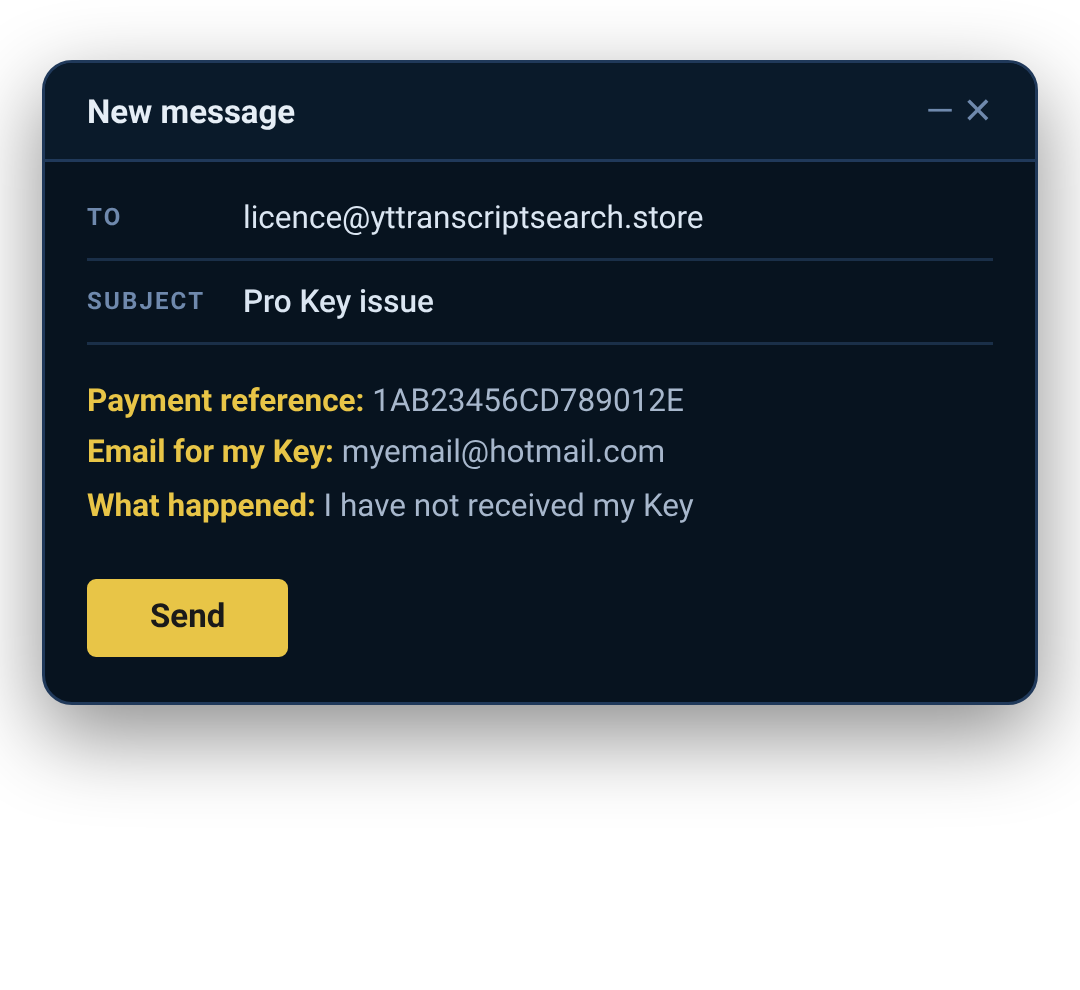
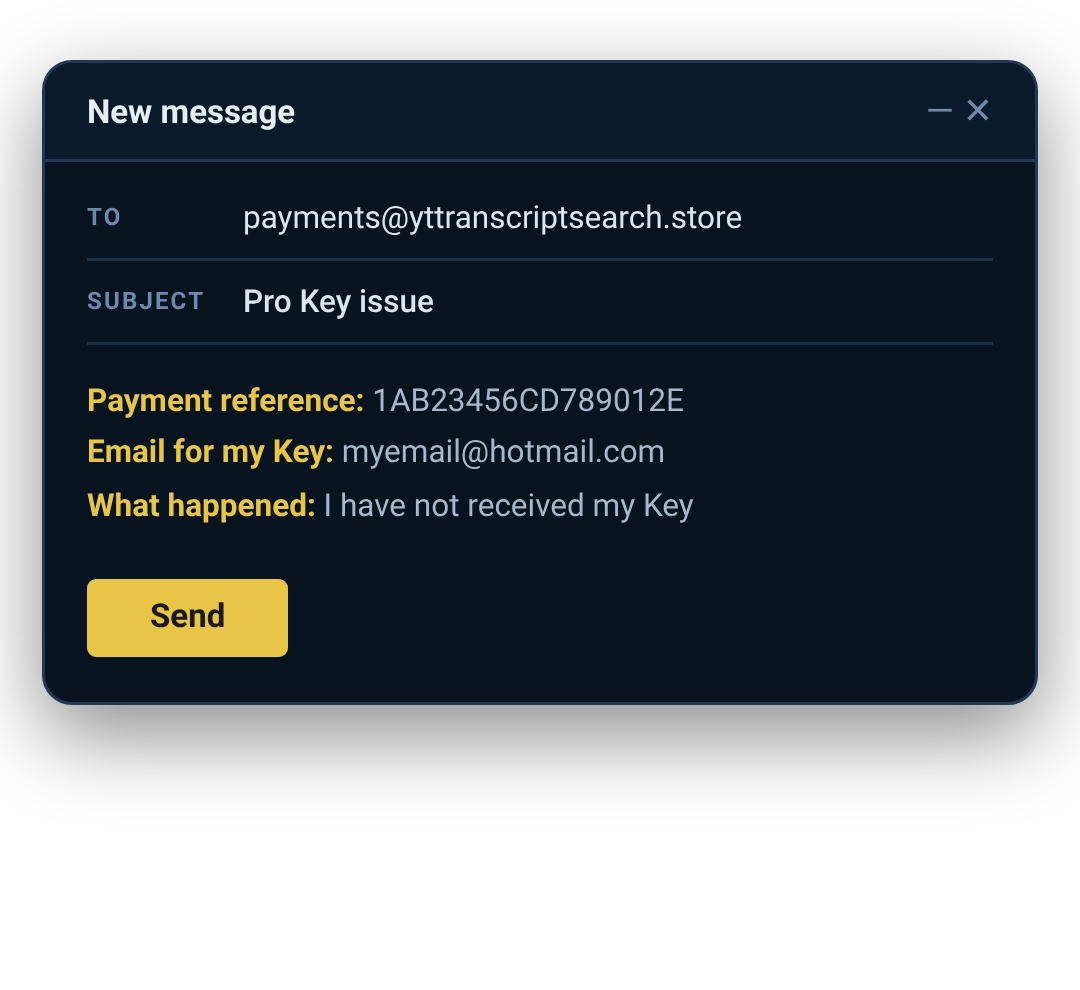
Add files via upload

Changed region(s): [[0.2139, 0.2121, 0.7028, 0.2424]]

diff --git a/purchase-thanks.html b/purchase-thanks.html
@@ -8,7 +8,7 @@
         <meta name="robots" content="noindex, nofollow"/>
         <link rel="stylesheet" href="style.css"/>
         <link rel="icon" href="icon_128x128.png"/>
-        <style>.features-section { padding: 36px 0; border-bottom: 1px solid var(--border); } .features-section:last-of-type { border-bottom: none; } .policy-updated { font-size: 13px; color: var(--muted); margin-top: -8px; margin-bottom: 8px; } .summary-grid { display: grid; grid-template-columns: repeat(auto-fill, minmax(240px, 1fr)); gap: 16px; } .summary-card { background: var(--surface); border: 1px solid var(--border); border-radius: 12px; padding: 22px; display: flex; gap: 14px; align-items: flex-start; } .summary-icon { font-size: 22px; flex-shrink: 0; margin-top: 1px; } .summary-title { font-family: var(--font-head); font-size: 14px; font-weight: 700; color: var(--text); margin-bottom: 4px; } .summary-desc { font-size: 13px; color: var(--muted2); line-height: 1.55; } .policy-body p { margin-bottom: 16px; } .policy-body p:last-child { margin-bottom: 0; } .policy-body strong { color: var(--text); } .policy-body a { color: var(--accent); } .faq { display: flex; flex-direction: column; gap: 0; margin-top: 8px; } .faq-item { border-bottom: 1px solid var(--border); padding: 22px 0; } .faq-item:first-child { border-top: 1px solid var(--border); } .faq-q { font-family: var(--font-head); font-size: 16px; font-weight: 600; color: var(--text); margin-bottom: 10px; }.welcome-steps { display: grid; grid-template-columns: repeat(auto-fill,minmax(230px,1fr)); gap: 2px; background: var(--border); border-radius: 14px; overflow: hidden; margin-bottom: 36px; } .welcome-step { background: var(--surface); padding: 32px 26px; } .welcome-num { font-family: var(--font-head); font-size: 12px; font-weight: 700; color: var(--accent); letter-spacing: 0.1em; margin-bottom: 14px; display: block; } .welcome-title { font-family: var(--font-head); font-size: 17px; font-weight: 600; color: var(--text); margin-bottom: 10px; } .welcome-desc { font-size: 14px; color: var(--muted2); line-height: 1.6; } .welcome-img { width: 100%; border-radius: 14px; border: 1px solid var(--border); box-shadow: 0 32px 80px rgba(0,0,0,0.7); } .welcome-links { display: flex; flex-wrap: wrap; gap: 12px; margin-top: 24px; } .thanks-steps.welcome-steps { display: grid !important; grid-template-columns: repeat(3, minmax(0, 1fr)); gap: 2px !important; } .welcome-desc a { color: var(--accent); } @media (max-width: 760px) { .thanks-steps.welcome-steps { grid-template-columns: minmax(0, 1fr); } } .pro-note { background: var(--surface); border-radius: 14px; padding: 26px 28px; margin: 0 0 4px; } .pro-note .eyebrow { margin-bottom: 10px; } .pro-note p { margin: 0; font-size: 15px; line-height: 1.7; color: var(--muted2); } .thanks-grid { display: grid; grid-template-columns: repeat(3, minmax(0, 1fr)); grid-template-rows: auto auto; } .thanks-col { display: contents; } .thanks-grid .welcome-step { grid-row: 1; border-left: 2px solid var(--border); } .thanks-grid .thanks-col:first-child .welcome-step { border-left: 0; border-radius: 14px 0 0 14px; } .thanks-grid .thanks-col:last-child .welcome-step { border-radius: 0 14px 14px 0; } .thanks-pic { grid-row: 2; margin-top: 36px; display: flex; justify-content: center; } .thanks-pic img { width: 100%; max-width: 360px; height: auto; display: block; } .thanks-grid .thanks-col:nth-child(1) > * { grid-column: 1; } .thanks-grid .thanks-col:nth-child(2) > * { grid-column: 2; } .thanks-grid .thanks-col:nth-child(3) > * { grid-column: 3; } .pro-note { margin-top: 36px !important; } @media (max-width: 760px) { .thanks-grid { display: block; } .thanks-col { display: block; margin-bottom: 28px; } .thanks-grid .welcome-step, .thanks-grid .thanks-col:first-child .welcome-step, .thanks-grid .thanks-col:last-child .welcome-step { border: 0; border-radius: 14px; } .thanks-pic { margin-top: 20px; } .pro-note { margin-top: 8px !important; } }</style>
+        <style>.features-section { padding: 36px 0; border-bottom: 1px solid var(--border); } .features-section:last-of-type { border-bottom: none; } .policy-updated { font-size: 13px; color: var(--muted); margin-top: -8px; margin-bottom: 8px; } .summary-grid { display: grid; grid-template-columns: repeat(auto-fill, minmax(240px, 1fr)); gap: 16px; } .summary-card { background: var(--surface); border: 1px solid var(--border); border-radius: 12px; padding: 22px; display: flex; gap: 14px; align-items: flex-start; } .summary-icon { font-size: 22px; flex-shrink: 0; margin-top: 1px; } .summary-title { font-family: var(--font-head); font-size: 14px; font-weight: 700; color: var(--text); margin-bottom: 4px; } .summary-desc { font-size: 13px; color: var(--muted2); line-height: 1.55; } .policy-body p { margin-bottom: 16px; } .policy-body p:last-child { margin-bottom: 0; } .policy-body strong { color: var(--text); } .policy-body a { color: var(--accent); } .faq { display: flex; flex-direction: column; gap: 0; margin-top: 8px; } .faq-item { border-bottom: 1px solid var(--border); padding: 22px 0; } .faq-item:first-child { border-top: 1px solid var(--border); } .faq-q { font-family: var(--font-head); font-size: 16px; font-weight: 600; color: var(--text); margin-bottom: 10px; }.welcome-steps { display: grid; grid-template-columns: repeat(auto-fill,minmax(230px,1fr)); gap: 2px; background: var(--border); border-radius: 14px; overflow: hidden; margin-bottom: 36px; } .welcome-step { background: var(--surface); padding: 32px 26px; } .welcome-num { font-family: var(--font-head); font-size: 12px; font-weight: 700; color: var(--accent); letter-spacing: 0.1em; margin-bottom: 14px; display: block; } .welcome-title { font-family: var(--font-head); font-size: 17px; font-weight: 600; color: var(--text); margin-bottom: 10px; } .welcome-desc { font-size: 14px; color: var(--muted2); line-height: 1.6; } .welcome-img { width: 100%; border-radius: 14px; border: 1px solid var(--border); box-shadow: 0 32px 80px rgba(0,0,0,0.7); } .welcome-links { display: flex; flex-wrap: wrap; gap: 12px; margin-top: 24px; } .thanks-steps.welcome-steps { display: grid !important; grid-template-columns: repeat(3, minmax(0, 1fr)); gap: 2px !important; } .welcome-desc a { color: var(--accent); } @media (max-width: 760px) { .thanks-steps.welcome-steps { grid-template-columns: minmax(0, 1fr); } } .pro-note { background: var(--surface); border-radius: 14px; padding: 26px 28px; margin: 0 0 4px; } .pro-note .eyebrow { margin-bottom: 10px; } .pro-note p { margin: 0; font-size: 15px; line-height: 1.7; color: var(--muted2); } .thanks-grid { display: grid; grid-template-columns: repeat(3, minmax(0, 1fr)); grid-template-rows: auto auto; } .thanks-col { display: contents; } .thanks-grid .welcome-step { grid-row: 1; border-left: 2px solid var(--border) !important; } .thanks-grid .thanks-col:first-child .welcome-step { border-left: 0 !important; border-radius: 14px 0 0 14px !important; } .thanks-grid .thanks-col:last-child .welcome-step { border-radius: 0 14px 14px 0 !important; } .thanks-pic { grid-row: 2; margin-top: 36px; display: flex; justify-content: center; } .thanks-pic img { width: 100%; max-width: 360px; height: auto; display: block; } .thanks-grid .thanks-col:nth-child(1) > * { grid-column: 1; } .thanks-grid .thanks-col:nth-child(2) > * { grid-column: 2; } .thanks-grid .thanks-col:nth-child(3) > * { grid-column: 3; } .pro-note { margin-top: 36px !important; } @media (max-width: 760px) { .thanks-grid { display: block; } .thanks-col { display: block; margin-bottom: 28px; } .thanks-grid .welcome-step, .thanks-grid .thanks-col:first-child .welcome-step, .thanks-grid .thanks-col:last-child .welcome-step { border: 0 !important; border-radius: 14px !important; } .thanks-pic { margin-top: 20px; } .pro-note { margin-top: 8px !important; } } .thanks-eyebrow { display: block; font-size: 30px !important; letter-spacing: 0.1em; margin-bottom: 14px; } .thanks-h1 { font-size: 50px !important; line-height: 1.15; margin: 0 !important; font-style: normal; } .thanks-pro { color: var(--accent); font-style: normal; font-weight: inherit; } .page-hero .page { text-align: center; } .pro-note { margin-top: 0 !important; } @media (max-width: 760px) { .thanks-eyebrow { font-size: 22px !important; } .thanks-h1 { font-size: 34px !important; } .pro-note { margin-top: 0 !important; } }</style>
     <link rel="stylesheet" href="site-v25.css" />
 </head>
     <body>
@@ -30,8 +30,8 @@
         </nav>
         <div class="page-hero">
             <div class="page" style="text-align:center;">
-                <span class="eyebrow">🎉 Payment received</span>
-                <h1 class="section-title">Thank you for going <em>Pro</em></h1>
+                <span class="eyebrow thanks-eyebrow">Payment received</span>
+                <h1 class="section-title thanks-h1">Thank you for going <span class="thanks-pro">★ Pro</span></h1>
             </div>
         </div>
         <div class="features-section">
@@ -47,15 +47,23 @@
                         <div class="thanks-pic"><img src="thanks-activate-pro.png" alt="The Get Pro button in the extension opening the Activate Pro panel with email address and Licence Key fields" width="360" height="330" loading="lazy"/></div>
                     </div>
                     <div class="thanks-col">
-                        <div class="welcome-step"><span class="welcome-num">03</span><div class="welcome-title">Any issues?</div><p class="welcome-desc">Email <a href="mailto:licence@yttranscriptsearch.store">licence@yttranscriptsearch.store</a> with your payment reference (the transaction ID on your PayPal receipt) and we aim to reply quickly</p></div>
-                        <div class="thanks-pic"><img src="thanks-contact-us.png" alt="An email to licence@yttranscriptsearch.store with the payment reference and the email address for your Key" width="360" height="330" loading="lazy"/></div>
+                        <div class="welcome-step"><span class="welcome-num">03</span><div class="welcome-title">Any issues?</div><p class="welcome-desc">Email <a href="mailto:payments@yttranscriptsearch.store">payments@yttranscriptsearch.store</a> with your payment reference (the transaction ID on your PayPal receipt) and we aim to reply quickly</p></div>
+                        <div class="thanks-pic"><img src="thanks-contact-us.png" alt="An email to payments@yttranscriptsearch.store with the payment reference and the email address for your Key" width="360" height="330" loading="lazy"/></div>
                     </div>
                 </div>
+            </div>
+        </div>
+        <div class="features-section">
+            <div class="page">
                 <div class="pro-note">
                     <span class="eyebrow">A note for Pro users</span>
                     <p>Development never stopped. v1.0 is the first version submitted to the Chrome Web Store and Microsoft Edge Add-ons. That process began some time ago and development has carried on in the background ever since. v2.0 is very close, with many more features and refinements, all included in your <span class="pro-tag">★ Pro</span> licence</p>
                 </div>
-                <div class="welcome-links">
+            </div>
+        </div>
+        <div class="features-section">
+            <div class="page">
+                <div class="welcome-links" style="margin-top:0;">
                     <a href="free_vs_pro.html?tier=pro" class="btn btn-primary">What&apos;s included in Pro →</a>
                     <a href="how-it-works.html" class="btn btn-outline">See the full guide</a>
                     <a href="contact.html" class="btn btn-outline">Need help? Contact us</a>

diff --git a/faq.html b/faq.html
@@ -172,19 +172,19 @@
       </div>
       <div class="faq-item">
         <div class="faq-q">How do I buy Pro?</div>
-        <p class="faq-a">Click <strong>★ Go Pro</strong> to open the <a href="purchase.html">Purchase page</a>. You can pay by card, Apple Pay or PayPal, and the payment is processed securely by PayPal. Your licence key is sent to the email address on your payment</p>
+        <p class="faq-a">Click <strong>★ Go Pro</strong> to open the <a href="purchase.html">Purchase page</a>. You can pay by card, Apple Pay or PayPal, and the payment is processed securely by PayPal. Your licence Key is sent to the email address on your payment</p>
       </div>
       <div class="faq-item">
         <div class="faq-q">How do I activate my key?</div>
-        <p class="faq-a">Click the <span class="pro-tag">★ Pro</span> button in the bottom bar of the overlay, then enter the email address your key was sent to and your licence key. Verification happens locally on your device</p>
+        <p class="faq-a">Click the <span class="pro-tag">★ Pro</span> button in the bottom bar of the overlay, then enter the email address your Key was sent to and your licence Key. Verification happens locally on your device</p>
       </div>
       <div class="faq-item">
         <div class="faq-q">I paid for Pro but haven't received my key yet</div>
-        <p class="faq-a">Keys are delivered manually, typically within 4 hours. First check your spam folder. If it's been more than 4 hours, email us at <a href="mailto:licence@yttranscriptsearch.store">licence@yttranscriptsearch.store</a> with your payment reference and we'll send it straight away</p>
+        <p class="faq-a">Keys are delivered manually, typically within 4 hours. First check your spam folder. If it's been more than 4 hours, email us at <a href="mailto:payments@yttranscriptsearch.store">payments@yttranscriptsearch.store</a> with your payment reference and we'll send it straight away</p>
       </div>
       <div class="faq-item">
-        <div class="faq-q">My key isn't activating</div>
-        <p class="faq-a">Make sure you're entering the same email address your key was sent to. The key is case-insensitive but the email must match exactly. If it's still not working, contact us and we'll verify it manually</p>
+        <div class="faq-q">My Key isn't activating</div>
+        <p class="faq-a">Make sure you're entering the same email address your Key was sent to. The Key is case-insensitive but the email must match exactly. If it's still not working, contact us and we'll verify it manually</p>
       </div>
       <div class="faq-item">
         <div class="faq-q">What if I&rsquo;m not happy with Pro?</div>
@@ -205,7 +205,7 @@
     <div class="faq">
       <div class="faq-item">
         <div class="faq-q">Do you collect any of my data?</div>
-        <p class="faq-a">No. Using the <span class="free-tag">Free</span> version involves no data collection at all. If you buy Pro, your email address is used only to send your licence key and to verify it if you contact us about activation</p>
+        <p class="faq-a">No. Using the <span class="free-tag">Free</span> version involves no data collection at all. If you buy Pro, your email address is used only to send your licence Key and to verify it if you contact us about activation</p>
       </div>
       <div class="faq-item">
         <div class="faq-q">Are my searches or <em>Transcripts</em> sent anywhere?</div>
@@ -230,7 +230,7 @@
     <div class="faq">
       <div class="faq-item">
         <div class="faq-q">The <em>Transcript</em> won't load on a video</div>
-        <p class="faq-a">Not all YouTube videos have captions — particularly older, private, or unlisted videos. If a video shows the CC button on YouTube's own player, it should work with our extension too. If it has captions but still won't load, please report it to us with the video URL</p>
+        <p class="faq-a">Not all YouTube videos have captions — particularly older, private, or unlisted videos and recent live events. After a live event ends, YouTube needs a little time to process the video, and it generates the captions in the background, so please try again a little later. If you try on a live event, a message in the <em>Transcript</em> panel will tell you that no Transcript is available yet. If a video shows the CC button on YouTube's own player, it should work with our extension too. If it has captions but still won't load, please report it to us with the video URL</p>
       </div>
       <div class="faq-item">
         <div class="faq-q">Why do some videos have no <em>Transcript</em>?</div>

diff --git a/purchase.html b/purchase.html
@@ -4,7 +4,7 @@
   <meta charset="UTF-8" />
   <meta name="viewport" content="width=device-width, initial-scale=1.0" />
   <title>Purchase — YT Transcript Search</title>
-  <meta name="description" content="Buy a one-time YT Transcript Search Pro licence for €19.99 inc Tax. Pay by card, Apple Pay or PayPal and receive your licence key by email." />
+  <meta name="description" content="Buy a one-time YT Transcript Search Pro licence for €19.99 inc Tax. Pay by card, Apple Pay or PayPal and receive your licence Key by email." />
   <link rel="stylesheet" href="style.css" />
   <link rel="icon" href="icon_128x128.png" />
   <style>
@@ -189,9 +189,9 @@
     <span class="eyebrow">What Happens Next</span>
     <div class="welcome-steps">
       <div class="welcome-step"><span class="welcome-num">01</span><div class="welcome-title">Pay securely</div><p class="welcome-desc">Click the Checkout button and pay by card, Apple Pay or PayPal. You and we will each receive a payment confirmation email from PayPal</p></div>
-      <div class="welcome-step"><span class="welcome-num">02</span><div class="welcome-title">Receive your licence key</div><p class="welcome-desc">Please allow up to 4 hours for us to process your purchase. We then email your key to the address on your payment, so check your spam folder first</p></div>
-      <div class="welcome-step"><span class="welcome-num">03</span><div class="welcome-title">Activate in the extension</div><p class="welcome-desc">With the extension open, click the <span class="pro-tag">★ Pro</span> button in the bottom-left corner. Enter your email address and your licence key. After validation, all <span class="pro-tag">★ Pro</span> features unlock immediately</p></div>
-      <div class="welcome-step"><span class="welcome-num">04</span><div class="welcome-title">Any issues?</div><p class="welcome-desc">If anything goes wrong, or you would like your key sent to a different address, email <a href="mailto:licence@yttranscriptsearch.store">licence@yttranscriptsearch.store</a> with as many details as you can and your payment reference (the transaction ID on your PayPal receipt). We aim to reply quickly</p></div>
+      <div class="welcome-step"><span class="welcome-num">02</span><div class="welcome-title">Receive your licence Key</div><p class="welcome-desc">Please allow up to 4 hours for us to process your purchase. We then email your Key to the address on your payment, so check your spam folder first</p></div>
+      <div class="welcome-step"><span class="welcome-num">03</span><div class="welcome-title">Activate in the extension</div><p class="welcome-desc">With the extension open, click the <span class="pro-tag">★ Pro</span> button in the bottom-left corner. Enter your email address and your licence Key. After validation, all <span class="pro-tag">★ Pro</span> features unlock immediately</p></div>
+      <div class="welcome-step"><span class="welcome-num">04</span><div class="welcome-title">Any issues?</div><p class="welcome-desc">If anything goes wrong, or you would like your Key sent to a different address, email <a href="mailto:payments@yttranscriptsearch.store">payments@yttranscriptsearch.store</a> with as many details as you can and your payment reference (the transaction ID on your PayPal receipt). We aim to reply quickly</p></div>
     </div>
   </div>
 

diff --git a/terms.html b/terms.html
@@ -60,16 +60,16 @@
                 <h2 class="section-title section-title-sm" style="margin-bottom:20px;">What you get when you buy Pro</h2>
                 <div class="policy-body">
                     <p>Pro is a single one-time payment. There is no subscription and nothing to renew. The price is shown on the <a href="purchase.html">Purchase page</a> in euros and PayPal converts it to your own currency at checkout before you confirm</p>
-                    <p>Your licence is for your personal use and is tied to the email address on your payment, or the address you ask us to use. Please don&apos;t share your key or resell it. It stays valid for as long as the extension remains available</p>
+                    <p>Your licence is for your personal use and is tied to the email address on your payment, or the address you ask us to use. Please don&apos;t share your Key or resell it. It stays valid for as long as the extension remains available</p>
                 </div>
             </div>
         </div>
         <div class="features-section">
             <div class="page">
                 <span class="eyebrow">Payment &amp; Delivery</span>
-                <h2 class="section-title section-title-sm" style="margin-bottom:20px;">How payment and your key work</h2>
+                <h2 class="section-title section-title-sm" style="margin-bottom:20px;">How payment and your Key work</h2>
                 <div class="policy-body">
-                    <p>Payment is handled entirely by PayPal, whether you pay by card, Apple Pay or PayPal. We never see or store your card or PayPal login details. Licence keys are delivered by email, manually, typically within 4 hours of payment. If yours hasn&apos;t arrived, check your spam folder first, then email <a href="mailto:licence@yttranscriptsearch.store">licence@yttranscriptsearch.store</a> with your PayPal payment reference</p>
+                    <p>Payment is handled entirely by PayPal, whether you pay by card, Apple Pay or PayPal. We never see or store your card or PayPal login details. Licence Keys are delivered by email, manually, typically within 4 hours of payment. If yours hasn&apos;t arrived, check your spam folder first, then email <a href="mailto:payments@yttranscriptsearch.store">payments@yttranscriptsearch.store</a> with your PayPal payment reference</p>
                 </div>
             </div>
         </div>
@@ -88,7 +88,7 @@
                 <span class="eyebrow">Using the Extension</span>
                 <h2 class="section-title section-title-sm" style="margin-bottom:20px;">Fair use</h2>
                 <div class="policy-body">
-                    <p>Use the extension for your own personal or professional purposes and in line with YouTube&apos;s own terms of service. Please don&apos;t try to bypass the Pro licence check, or copy, resell or redistribute the extension or its licence keys</p>
+                    <p>Use the extension for your own personal or professional purposes and in line with YouTube&apos;s own terms of service. Please don&apos;t try to bypass the Pro licence check, or copy, resell or redistribute the extension or its licence Keys</p>
                 </div>
             </div>
         </div>

diff --git a/nav.js b/nav.js
@@ -3,7 +3,7 @@
    where style.css hides the row of links. The links themselves stay in each page as plain HTML.
    Nothing here touches the Chrome extension. */
 /* Website version shown in every page footer. Change it here and upload nav.js only */
-var YTTS_SITE_VERSION = 'v1.29.1';
+var YTTS_SITE_VERSION = 'v1.29.3';
 
 (function () {
   'use strict';
@@ -19,6 +19,12 @@ var YTTS_SITE_VERSION = 'v1.29.1';
     '  .nav.menu-open .nav-links li{list-style:none;width:100%}',
     '  .nav.menu-open .nav-links a{padding:12px 10px;font-size:15px;white-space:normal}',
     '}',
+    '.nav-inner{position:relative}',
+    '.nav-back{position:absolute;left:-12px;top:50%;transform:translateY(-50%);display:inline-flex;align-items:center;justify-content:center;width:26px;height:32px;padding:0;border:0;background:transparent;color:var(--accent,#e8c547);cursor:pointer;border-radius:6px;transition:color .15s}',
+    '.nav-back svg{width:18px;height:18px;display:block}',
+    '.nav-back:hover{color:var(--text,#f0f0f2)}',
+    '.nav-back:focus-visible{outline:2px solid var(--accent,#e8c547);outline-offset:2px}',
+    '@media (max-width:1110px){ .nav-back{left:2px;width:20px} }',
     '@media (max-width:440px){ .nav-logo .nav-banner{display:none} }'
   ].join('\n');
 
@@ -28,6 +34,20 @@ var YTTS_SITE_VERSION = 'v1.29.1';
     var inner = nav.querySelector('.nav-inner');
     var links = nav.querySelector('.nav-links');
     var cta = nav.querySelector('.nav-cta');
+    /* Back arrow, left of the logo: returns to the previous page (goes to the Home page when the page was opened directly) */
+    var logo = nav.querySelector('.nav-logo');
+    if (inner && logo) {
+      var back = document.createElement('button');
+      back.type = 'button';
+      back.className = 'nav-back';
+      back.setAttribute('aria-label', 'Back to the previous page');
+      back.title = 'Back';
+      back.innerHTML = '<svg viewBox="0 0 24 24" fill="none" stroke="currentColor" stroke-width="3" stroke-linecap="round" stroke-linejoin="round" aria-hidden="true"><path d="M15 5l-7 7 7 7"/></svg>';
+      back.addEventListener('click', function () {
+        if (window.history.length > 1) { window.history.back(); } else { window.location.href = 'index.html'; }
+      });
+      inner.appendChild(back);
+    }
     if (!inner || !links || nav.querySelector('.nav-menu-btn')) return;
 
     var style = document.createElement('style');

diff --git a/privacy.html b/privacy.html
@@ -77,7 +77,7 @@
                 <h2 class="section-title section-title-sm" style="margin-bottom:20px;">In short: nothing, unless you buy Pro</h2>
                 <div class="policy-body">
                     <p>Using the <span class="free-tag">Free</span> version of <i>YT Transcript Search</i> involves no data collection on our part at all. The extension runs entirely inside your browser tab, fetching <em>Transcript</em> data directly from YouTube and storing your preferences (theme, panel position, that kind of thing) only on your own device</p>
-                    <p>If you choose to buy Pro, you make a one-time payment through PayPal&apos;s secure checkout, by card, Apple Pay or PayPal. PayPal tells us your name, the email address on your payment and the amount. We use that email solely to send your licence key and to verify the key if you contact us about activation. We don't store it anywhere beyond our own email inbox and we don't add you to any mailing list or share it with anyone</p>
+                    <p>If you choose to buy Pro, you make a one-time payment through PayPal&apos;s secure checkout, by card, Apple Pay or PayPal. PayPal tells us your name, the email address on your payment and the amount. We use that email solely to send your licence Key and to verify the Key if you contact us about activation. We don't store it anywhere beyond our own email inbox and we don't add you to any mailing list or share it with anyone</p>
                     <p>If you email us, we receive your email address and whatever you write. We use it only to reply to you</p>
                 </div>
             </div>
@@ -173,7 +173,7 @@
                     </div>
                     <div class="faq-item">
                         <div class="faq-q">Do you sell or share my data?</div>
-                        <p class="faq-a">We have none to sell. The only personal information we ever hold is a Pro buyer's email, used solely to deliver a licence key and never shared with anyone</p>
+                        <p class="faq-a">We have none to sell. The only personal information we ever hold is a Pro buyer's email, used solely to deliver a licence Key and never shared with anyone</p>
                     </div>
                     <div class="faq-item">
                         <div class="faq-q">What happens if I uninstall the extension?</div>

diff --git a/contact.html b/contact.html
@@ -52,8 +52,8 @@
                             <span class="contact-card-icon">⭐</span>
                             <div>
                                 <div class="contact-card-title">Pro Licence Support</div>
-                                <p class="contact-card-desc">Haven't received your licence key? Having trouble activating? Email us and we'll sort it out promptly. Licence keys are typically delivered within 4 hours of payment</p>
-                                <a href="mailto:licence@yttranscriptsearch.store?subject=Pro%20Licence%20Support" class="contact-card-link">
+                                <p class="contact-card-desc">Haven't received your licence Key? Having trouble activating? Email us and we'll sort it out promptly. Licence Keys are typically delivered within 4 hours of payment</p>
+                                <a href="mailto:payments@yttranscriptsearch.store?subject=Pro%20Licence%20Support" class="contact-card-link">
               Email about Pro → </a>
                             </div>
                         </div>
@@ -78,7 +78,7 @@
                     </div>
                     <div class="response-note" style="margin-top:20px;">
                         <span class="response-note-icon">⏱</span>
-                        <p class="response-note-text"><strong>Response time:</strong> We aim to reply to all messages within 8 hours during normal hours. Pro licence keys are typically delivered within 4 hours of payment</p>
+                        <p class="response-note-text"><strong>Response time:</strong> We aim to reply to all messages within 8 hours during normal hours. Pro licence Keys are typically delivered within 4 hours of payment</p>
                     </div>
                     <div class="response-note" style="margin-top:12px;">
                         <span class="response-note-icon">💬</span>

diff --git a/how-it-works.html b/how-it-works.html
@@ -267,7 +267,7 @@
   <div class="guide-body">
     <p><span class="free-tag">Free</span> <strong>includes:</strong> Load and searching <em>Transcripts</em>. Colour-coded <em>Timestamp Links</em>. Limited Export options. Theme choice. Following mode</p>
     <p><span class="pro-tag">★ Pro</span> <strong>unlocks:</strong> <a href="teleprompter.html">Teleprompter</a> (full customisation and profiles). Append Search. URL lock. Language picker. Import chapters. Manual add to <em>Timestamp Links</em>. Bookmark. Import of shared <em>Timestamp Links</em> files. Selection Copy with Ctrl. SRT/CSV/JSON/Markdown export. Longer history and undo depth. Minimap and much more</p>
-    <p>Activate Pro with the <span class="pro-tag">★ Pro</span> button — enter the email address your key was sent to and your licence key. Verification is local and cryptographic</p>
+    <p>Activate Pro with the <span class="pro-tag">★ Pro</span> button — enter the email address your Key was sent to and your licence Key. Verification is local and cryptographic</p>
   </div>
   <div style="margin-top:20px;">
     <a href="free_vs_pro.html" class="btn btn-outline">Explore Free vs Pro interactively →</a>

diff --git a/free_vs_pro.html b/free_vs_pro.html
@@ -120,8 +120,7 @@
 <div class="fvp-hero"><div class="page">
   <span class="eyebrow">Free vs Pro</span>
   <h1 class="section-title">See the difference for yourself</h1>
-  <p class="section-sub" style="margin-bottom:0;">Toggle between Free and Pro version and hover over anything you're curious about and its details will be shown in the panel to the right of the screen</p>
-  <p class="section-sub" style="margin-top:0;">Both versions share the same promise: no AI subscription, no account and nothing to sign in to</p>
+  <p class="section-sub" style="margin-bottom:0;">Toggle between the Free and Pro versions then hover over anything you're curious about, its details will be shown in the panel to the right of the screen</p>
 </div></div>
 
 <div class="fvp-wide">
